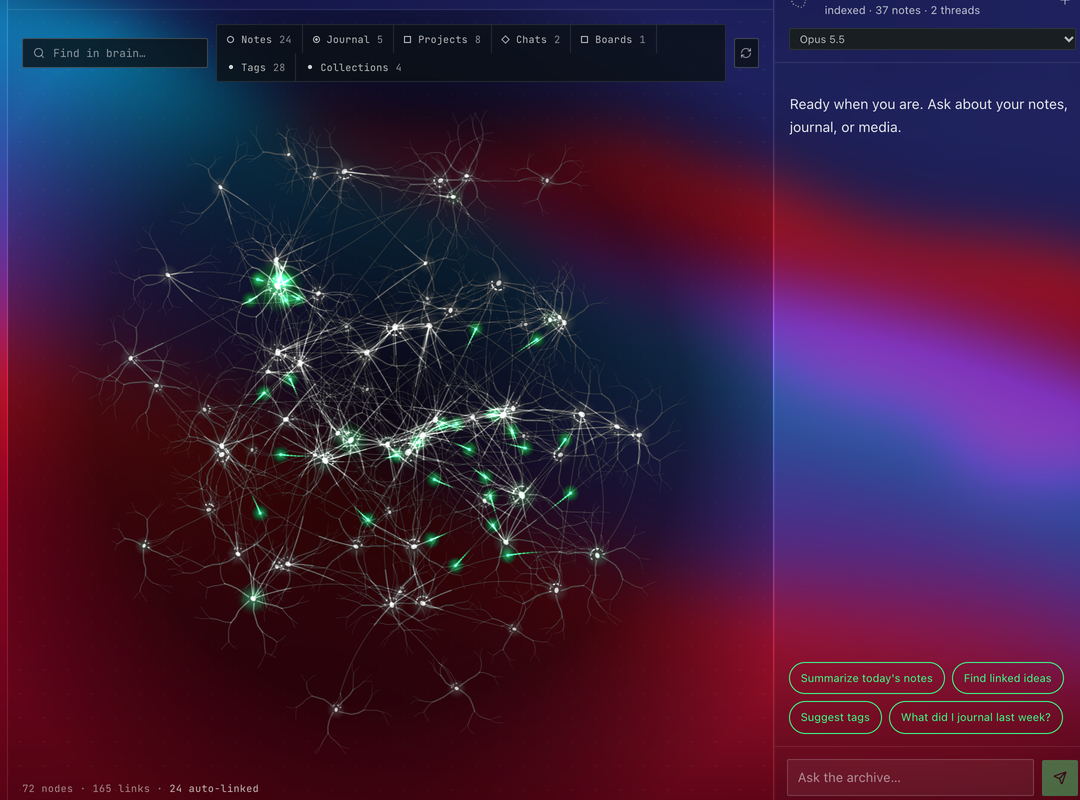
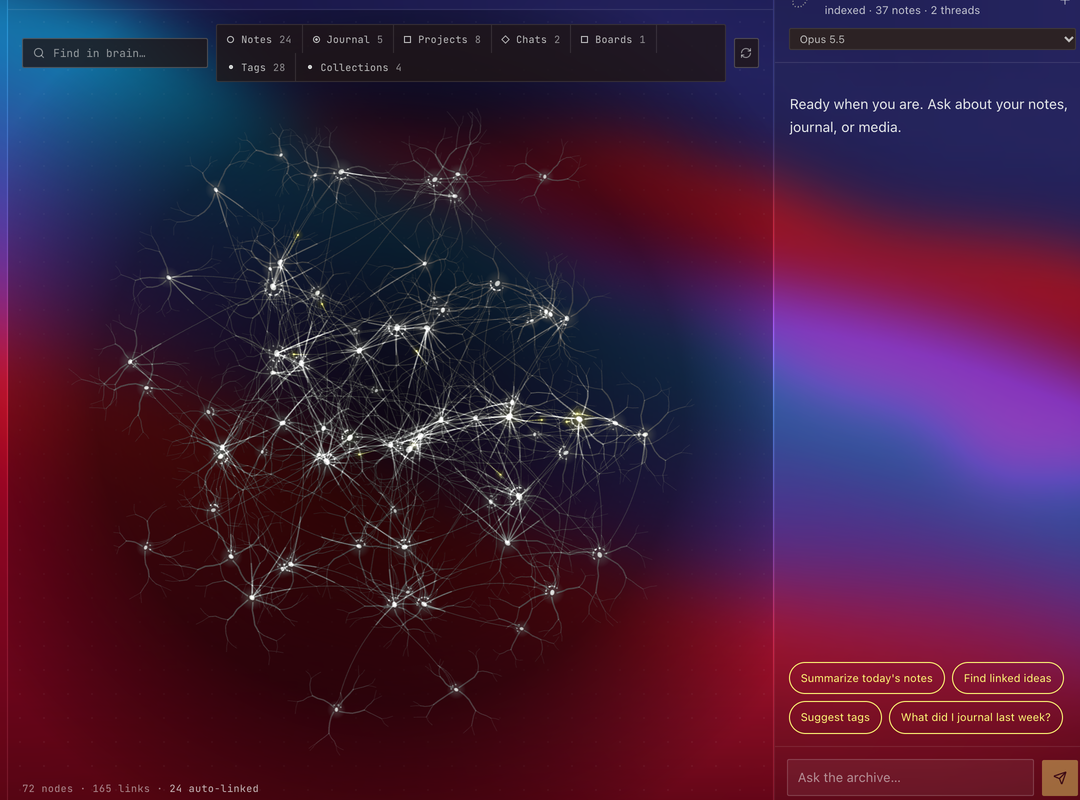
Archives 47: subtler neuron firing, in the user's highlight colour

diff --git a/src/apps/archives/brain/neurons.ts b/src/apps/archives/brain/neurons.ts
@@ -79,7 +79,7 @@ export type Network = {
   trees: Float32Array[][];
 };
 
-export const MAX_PULSES = 36;
+export const MAX_PULSES = 10;
 export const REFRACTORY = 1.4;
 
 function edgeKey(n: number, edges: ReadonlyArray<readonly [number, number]>): string {
@@ -116,7 +116,7 @@ export function ensureNetwork(
     adj,
     fire: new Float32Array(n),
     rest: new Float32Array(n),
-    next: Float32Array.from({ length: n }, () => 0.5 + rnd() * 10),
+    next: Float32Array.from({ length: n }, () => 2 + rnd() * 30),
     pulses: [],
     trees,
   };
@@ -135,8 +135,8 @@ export function fireCell(
   for (const e of net.adj[i] ?? []) {
     if (e === opts.from) continue;
     if (net.pulses.length >= MAX_PULSES) break;
-    if (rnd() > 0.6) continue;
-    net.pulses.push({ e, dir: net.ends[e * 2] === i ? 1 : -1, u: 0, speed: 0.45 + rnd() * 0.4 });
+    if (rnd() > 0.4) continue;
+    net.pulses.push({ e, dir: net.ends[e * 2] === i ? 1 : -1, u: 0, speed: 0.22 + rnd() * 0.18 });
   }
   return true;
 }
@@ -149,12 +149,12 @@ export function stepNetwork(
   opts: { spontaneous?: boolean; rnd?: () => number } = {},
 ): void {
   const rnd = opts.rnd ?? Math.random;
-  const decay = Math.exp(-dt * 3.2);
+  const decay = Math.exp(-dt * 1.6);
   for (let i = 0; i < net.n; i++) {
     net.fire[i] = net.fire[i]! * decay;
     net.rest[i] = Math.max(0, net.rest[i]! - dt);
     if (opts.spontaneous !== false && t >= net.next[i]!) {
-      net.next[i] = t + 9 + rnd() * 18;
+      net.next[i] = t + 22 + rnd() * 40;
       fireCell(net, i, { rnd });
     }
   }
@@ -167,8 +167,8 @@ export function stepNetwork(
   net.pulses = live;
   for (const p of arrived) {
     const target = p.dir === 1 ? net.ends[p.e * 2 + 1]! : net.ends[p.e * 2]!;
-    net.fire[target] = Math.max(net.fire[target]!, 0.45);
-    if (rnd() < 0.42) fireCell(net, target, { from: p.e, rnd });
+    net.fire[target] = Math.max(net.fire[target]!, 0.35);
+    if (rnd() < 0.25) fireCell(net, target, { from: p.e, rnd });
   }
 }
 
@@ -334,30 +334,30 @@ export function drawNeurons(f: NeuronFrame): void {
     const g = axonGeometry(f, p.e);
     const pos = (u: number) => g.at(p.dir === 1 ? u * 0.86 : 0.86 - u * 0.86);
     const [hx, hy] = pos(p.u);
-    const TAIL = 8;
-    ctx.lineWidth = 1.6;
+    const TAIL = 10;
+    ctx.lineWidth = 1;
     for (let j = 0; j < TAIL; j++) {
       const u0 = Math.max(0, p.u - (j + 1) * 0.022);
       const u1 = Math.max(0, p.u - j * 0.022);
       if (u1 <= 0) break;
       const [x0, y0] = pos(u0);
       const [x1, y1] = pos(u1);
-      ctx.strokeStyle = signal(0.75 * (1 - j / TAIL));
+      ctx.strokeStyle = signal(0.32 * (1 - j / TAIL));
       ctx.beginPath();
       ctx.moveTo(x0, y0);
       ctx.lineTo(x1, y1);
       ctx.stroke();
     }
-    const glow = ctx.createRadialGradient(hx, hy, 0, hx, hy, 9);
-    glow.addColorStop(0, signal(0.7));
+    const glow = ctx.createRadialGradient(hx, hy, 0, hx, hy, 6);
+    glow.addColorStop(0, signal(0.22));
     glow.addColorStop(1, signal(0));
     ctx.fillStyle = glow;
     ctx.beginPath();
-    ctx.arc(hx, hy, 9, 0, TAU);
+    ctx.arc(hx, hy, 6, 0, TAU);
     ctx.fill();
-    ctx.fillStyle = signal(1);
+    ctx.fillStyle = signal(0.6);
     ctx.beginPath();
-    ctx.arc(hx, hy, 1.6, 0, TAU);
+    ctx.arc(hx, hy, 1.1, 0, TAU);
     ctx.fill();
   }
 
@@ -375,9 +375,9 @@ export function drawNeurons(f: NeuronFrame): void {
     ctx.arc(x, y, r * 5, 0, TAU);
     ctx.fill();
     if (fire > 0.02) {
-      const fr = r * (4 + 6 * fire);
+      const fr = r * (3 + 3 * fire);
       const flash = ctx.createRadialGradient(x, y, 0, x, y, fr);
-      flash.addColorStop(0, signal(0.75 * fire));
+      flash.addColorStop(0, signal(0.28 * fire));
       flash.addColorStop(1, signal(0));
       ctx.fillStyle = flash;
       ctx.beginPath();
@@ -391,7 +391,7 @@ export function drawNeurons(f: NeuronFrame): void {
     ctx.ellipse(x, y, r * 1.15, r * 0.85, rot, 0, TAU);
     ctx.fill();
     if (fire > 0.02) {
-      ctx.fillStyle = signal(fire);
+      ctx.fillStyle = signal(0.55 * fire);
       ctx.beginPath();
       ctx.arc(x, y, r * 0.55, 0, TAU);
       ctx.fill();

diff --git a/PROGRESS.md b/PROGRESS.md
@@ -1,3 +1,11 @@
+## 2026-11-07 (cont.) — Archives 47: subtler neuron firing in the highlight colour
+
+Branch: `alpha/archives-app`. Owner: "make the neurons firing way more sybtle and they should match the highlight colour selected by user".
+
+Done:
+- Firing is far rarer and fainter. Cells fire every 22–62 s; 40% of axons carry each firing and 25% of arrivals cascade; at most 10 pulses exist at once. Pulses travel at half speed, with a thin low-alpha tail, a small glow and a soft cell flash.
+- The signal colour is the user's highlight (`--a47-accent`), re-read every second, so changing it in Settings recolours the Brain live. Verified with the owner's yellow `#fff975`: no green pixels in 24 frames.
+
 ## 2026-11-07 — Archives 47: Brain drawn as living neurons
 
 Branch: `alpha/archives-app`. Owner rejected the filament strands: "i dont like. i want it to feel like actually neurons in a brain".
